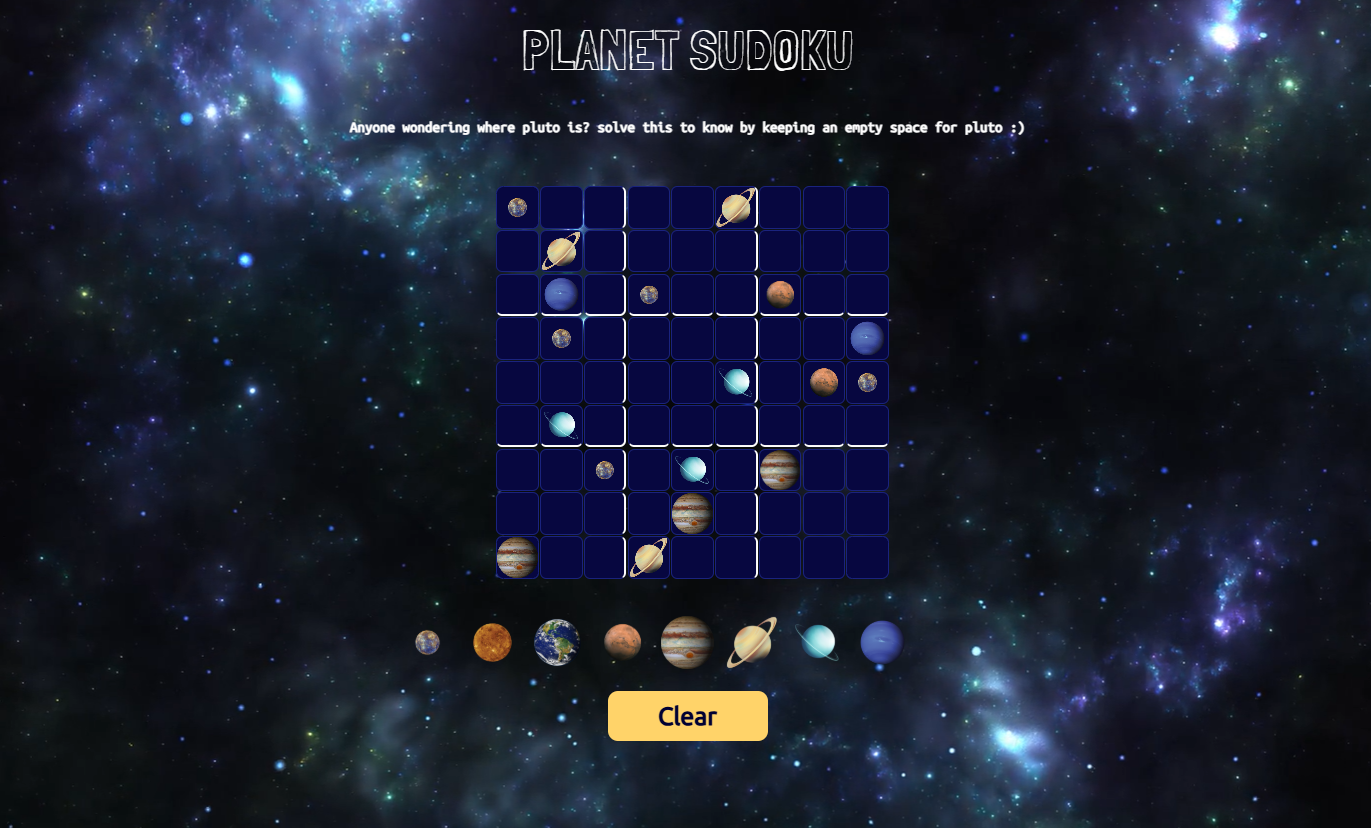
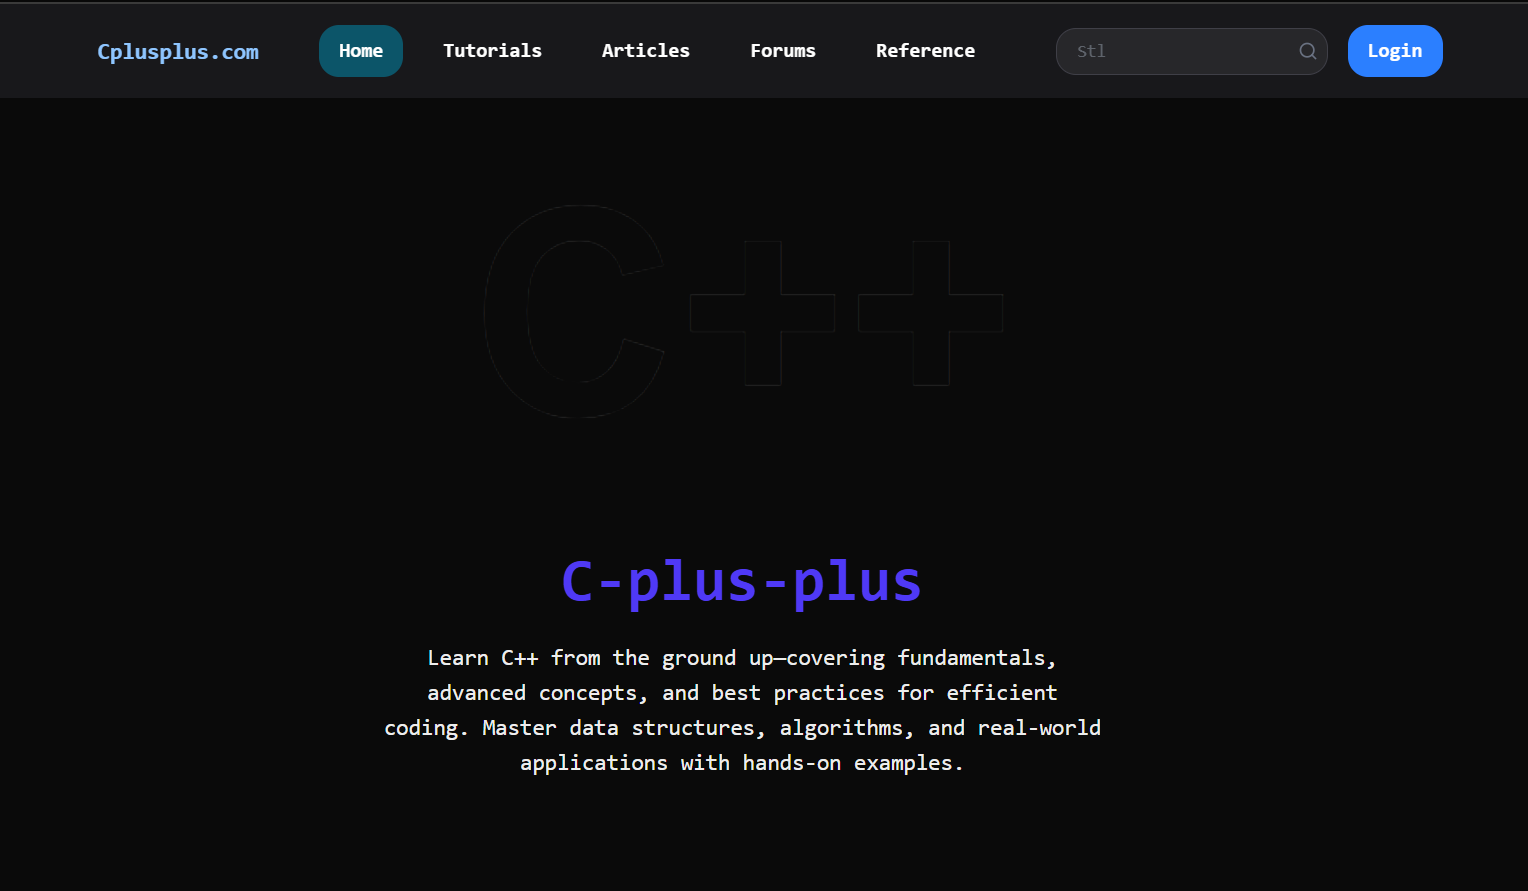
updates

diff --git a/shweta-behera/src/components/Projects.jsx b/shweta-behera/src/components/Projects.jsx
@@ -20,6 +20,12 @@ const works = [
     desc: 'Developed a enquiry management system to keep records of the data of customers and their purchases in relational databases.',
     projectLink: 'https://github.com/shwet46/endoscope-enquiry-management'
   },
+  {
+    imgSrc: '/photos/p4.png',
+    title: 'Cplusplus',
+    desc: 'This is a revamped version of the cplusplus.com website. It is a C++ reference website that provides information about the C++ programming language.',
+    projectLink: 'https://cplusplus-delta.vercel.app/'
+  },
 ];
 
 const Projects = () => {

diff --git a/shweta-behera/src/components/About.jsx b/shweta-behera/src/components/About.jsx
@@ -55,8 +55,8 @@ const About = () => {
         </div>
 
         <div className="hidden lg:block">
-          <figure className="w-full max-w-[380px] ml-auto hover:shadow-lg">
-            <img src="photos/sb7.jpg" alt="" width={356} height={500} className="w-full reveal-up rounded-lg" />
+          <figure className="w-full max-w-[380px] ml-auto mr-6 mt-10 hover:shadow-lg">
+            <img src="photos/sb13.jpg" alt="" width={356} height={500} className="w-full reveal-up rounded-lg" />
           </figure>
         </div>
       </div>
